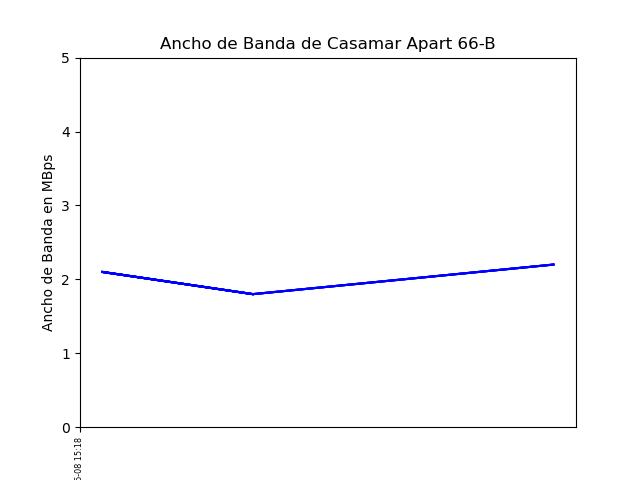
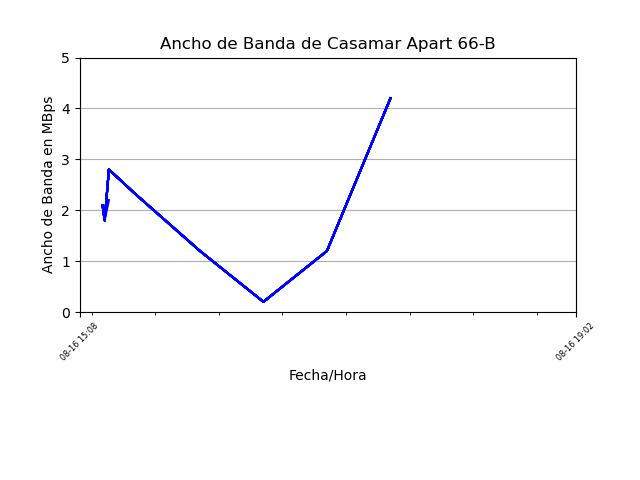
Cambio de estructura para mostrar las graficas

diff --git a/plot_speedtest.py b/plot_speedtest.py
@@ -1,9 +1,14 @@
-#!/usr/bin/env python
-
 import os
 import matplotlib.pyplot as plt
-from matplotlib import dates, rcParams
 import pandas as pd
+from matplotlib import dates, rcParams
+
+
+HOSTNAME = os.getenv('COMPUTERNAME')
+TITLE = 'Ancho de Banda de ' + f'{HOSTNAME}'
+YLABEL = 'Ancho de Banda en MBps'
+XLABEL = "Ultimas 24 Horas"
+xrange = (0, 1, 2, 3, 4, 5)
 
 
 def main():
@@ -26,38 +31,33 @@ def read_data():
         parse_dates={'timestamp': [0, 1]},
         na_values=['TEST', 'FAILED'],
     )
-    print(df)
-    return df[-48:]  # return data for last 48 periods (i.e., 24 hours)
+
+    # print(df)
+    return df[-48:]
 
 
 def make_plot_file_last_24(last_24, file_plot_name):
     rcParams['xtick.labelsize'] = 'xx-small'
-
     plt.plot(last_24['timestamp'], last_24['download'], 'b-')
-    plt.title('Ancho de Banda de Casamar Apart 66-B')
-    plt.ylabel('Ancho de Banda en MBps')
-    xrange = (0, 1, 2, 3, 4, 5)
+    plt.title(f'{TITLE}')
+    plt.ylabel(f'{YLABEL}')
     plt.yticks(xrange)
     plt.ylim(0.0, 5.0)
-    plt.xlabel('Fecha/Hora')
-    plt.xticks(rotation='90')
+    plt.xlabel(f'{XLABEL}')
+    plt.xticks(rotation='45')
     plt.grid()
+    # plt.show()
 
     current_axes = plt.gca()
     current_figure = plt.gcf()
 
-    # hfmt = dates.DateFormatter('%m-%d %H:%M')
-    # current_axes.xaxis.set_major_formatter(hfmt)
-    # current_figure.subplots_adjust(bottom=.35)
+    hfmt = dates.DateFormatter('%m/%d %H:%M')
+    current_axes.xaxis.set_major_formatter(hfmt)
+    current_figure.subplots_adjust(bottom = .25)
 
-    current_axes.xaxis.set_major_locator(dates.DayLocator(interval=1))
-    current_axes.xaxis.set_major_formatter(dates.DateFormatter('%d-%m %H:%M'))
-    # locator = dates.MinuteLocator(interval=30)
-    # locator.MAXTICKS = 5000
-    # current_axes.xaxis.set_minor_locator(locator)
-
-    # datemin = pd.datetime()
-    # current_axes.set_xlim(datemin)
+    loc = current_axes.xaxis.get_major_locator()
+    loc.maxticks[dates.HOURLY] = 24
+    loc.maxticks[dates.MINUTELY] = 60
 
     current_figure.savefig(file_plot_name)
 

diff --git a/log_speedtest.py b/log_speedtest.py
@@ -1,9 +1,9 @@
-#!/usr/bin/env python
-import os
+# Python program to test
+# internet speed
 import logging
+import speedtest
 
-DIR_APPDATA = os.getenv('APPDATA')
-SPEEDTEST_CMD = 'C:\\Users\\LuisVillegas\\AppData\\Roaming\\Python\\Python38\\Scripts\\speedtest.exe'
+SPEEDTEST = speedtest.Speedtest()
 LOG_FILE = 'speedtest.log'
 
 
@@ -15,6 +15,7 @@ def main():
         logging.info(err)
     else:
         logging.info("%5.1f %5.1f %5.1f", ping, download, upload)
+        # print(ping, download, upload)
 
 
 def setup_logging():
@@ -22,24 +23,19 @@ def setup_logging():
         filename=LOG_FILE,
         level=logging.INFO,
         format="%(asctime)s %(message)s",
-        datefmt="%d-%m-%Y %H:%M"
+        datefmt="%Y-%m-%d %H:%M",
     )
 
 
 def get_speedtest_results():
     """	Run test and parse results.
-        Returns tuple of ping speed, download speed, and upload speed,
-        or raises ValueError if unable to parse data."""
-    ping = download = upload = None
-    with os.popen(SPEEDTEST_CMD + ' --simple') as speedtest_output:
-        for line in speedtest_output:
-            label, value, unit = line.split()
-            if 'Ping' in label:
-                ping = float(value)
-            elif 'Download' in label:
-                download = float(value)
-            elif 'Upload' in label:
-                upload = float(value)
+            Returns tuple of ping speed, download speed, and upload speed,
+            or raises ValueError if unable to parse data."""
+    download = SPEEDTEST.download()
+    download = round(download / (10 ** 6), 2)
+    upload = SPEEDTEST.upload()
+    upload = round(upload / (10 ** 6), 2)
+    ping = SPEEDTEST.results.ping
 
     if all((ping, download, upload)):
         return ping, download, upload

diff --git a/main.py b/main.py
@@ -1,0 +1,21 @@
+import web
+import plot_speedtest
+
+PLOT_NAME = 'bandwidth.png'
+
+urls = (
+    '/', 'bandwidth',
+)
+
+
+class bandwidth:
+    def GET(self):
+        plot_speedtest.create_plot(PLOT_NAME)
+        web.header("Content-Type", 'image/png')
+        return open(PLOT_NAME, "rb").read()
+
+
+app = web.application(urls, globals())
+
+if __name__ == "__main__":
+    app.run()

diff --git a/testClass.py b/testClass.py
@@ -1,0 +1,5 @@
+import plot_speedtest
+PLOT_NAME = 'bandwidth.png'
+plot_speedtest.read_data()
+
+plot_speedtest.create_plot(PLOT_NAME)
